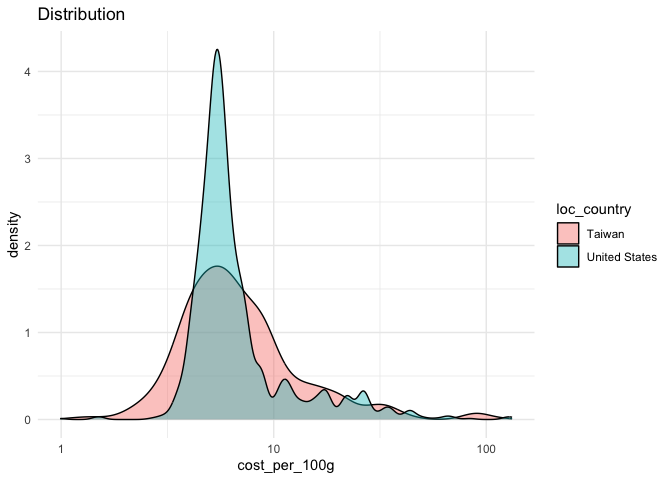
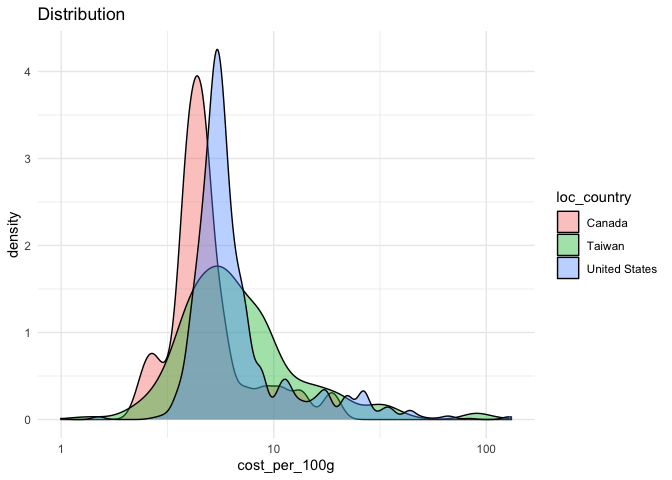
Editing/ adding powerpoint presentation to Question 1

Changed region(s): [[0.125, 0.125, 0.625, 0.875], [0.8125, 0.4062, 1.0, 0.5938], [0.6562, 0.8438, 0.75, 0.875]]

diff --git a/README.md b/README.md
@@ -56,7 +56,7 @@ raw_coffee <- read_csv("22921893Question1/data/Coffee/Coffee.csv")
 ## Loading and cleaning data
 
 First, I want to inspect the data to check its format and how messy it
-is
+is.
 
 ``` r
 raw_count <- raw_coffee |> 
@@ -114,24 +114,24 @@ tails in both directions. While this plot is useful for a general idea
 of the distribution, it is alone of little significance to a coffee shop
 owner. Therefore, I proceed to more insightful analysis.
 
-As the United States (n = 1332) and Taiwan (n = 549) are the countries
-which roast the most coffee beans, they are the predominant countries in
-the data. To visualise the cost distribution of these countries the
-following functions are run:
+As the United States (n = 1332), Taiwan (n = 549) and Canada are the
+countries which roast the most coffee beans, they are the predominant
+countries in the data. To visualise the cost distribution of these
+countries the following functions are run:
 
 ``` r
 # Density of cost
-cost_density <- plot_country_density(coffee_clean, cost_per_100g, c("United States", "Taiwan")) 
+cost_density <- plot_country_density(coffee_clean, cost_per_100g, c("United States", "Taiwan", "Canada")) 
 cost_density
 ```
 
-<img src="README_files/figure-markdown_github/unnamed-chunk-7-1.png" alt="The US and Taiwan."  />
+<img src="README_files/figure-markdown_github/unnamed-chunk-7-1.png" alt="The US, Taiwan and Canada."  />
 <p class="caption">
-The US and Taiwan.
+The US, Taiwan and Canada.
 </p>
 
 ``` r
-save_plot(cost_density, "The US and Taiwan.jpg")
+save_plot(cost_density, "The US, Taiwan, and Canada.jpg")
 ```
 
 As the goal should ultimately be to find good value coffee, I define a
@@ -198,10 +198,10 @@ t10candidates
 
 Top 10 roasters by value (median)
 
-## Indicators of good coffee
+## Indicators of desirable coffee
 
 Per the practical instructions, the most important keywords that
-Stelenbosch students have used as indicators of good coffee are: -
+Stellenbosch students have used as indicators of good coffee are: -
 sweet - finish - mouthfeel - structure - aroma - chocolate - toned
 
 Therefore, I first generate a new dataset, which includes a count of